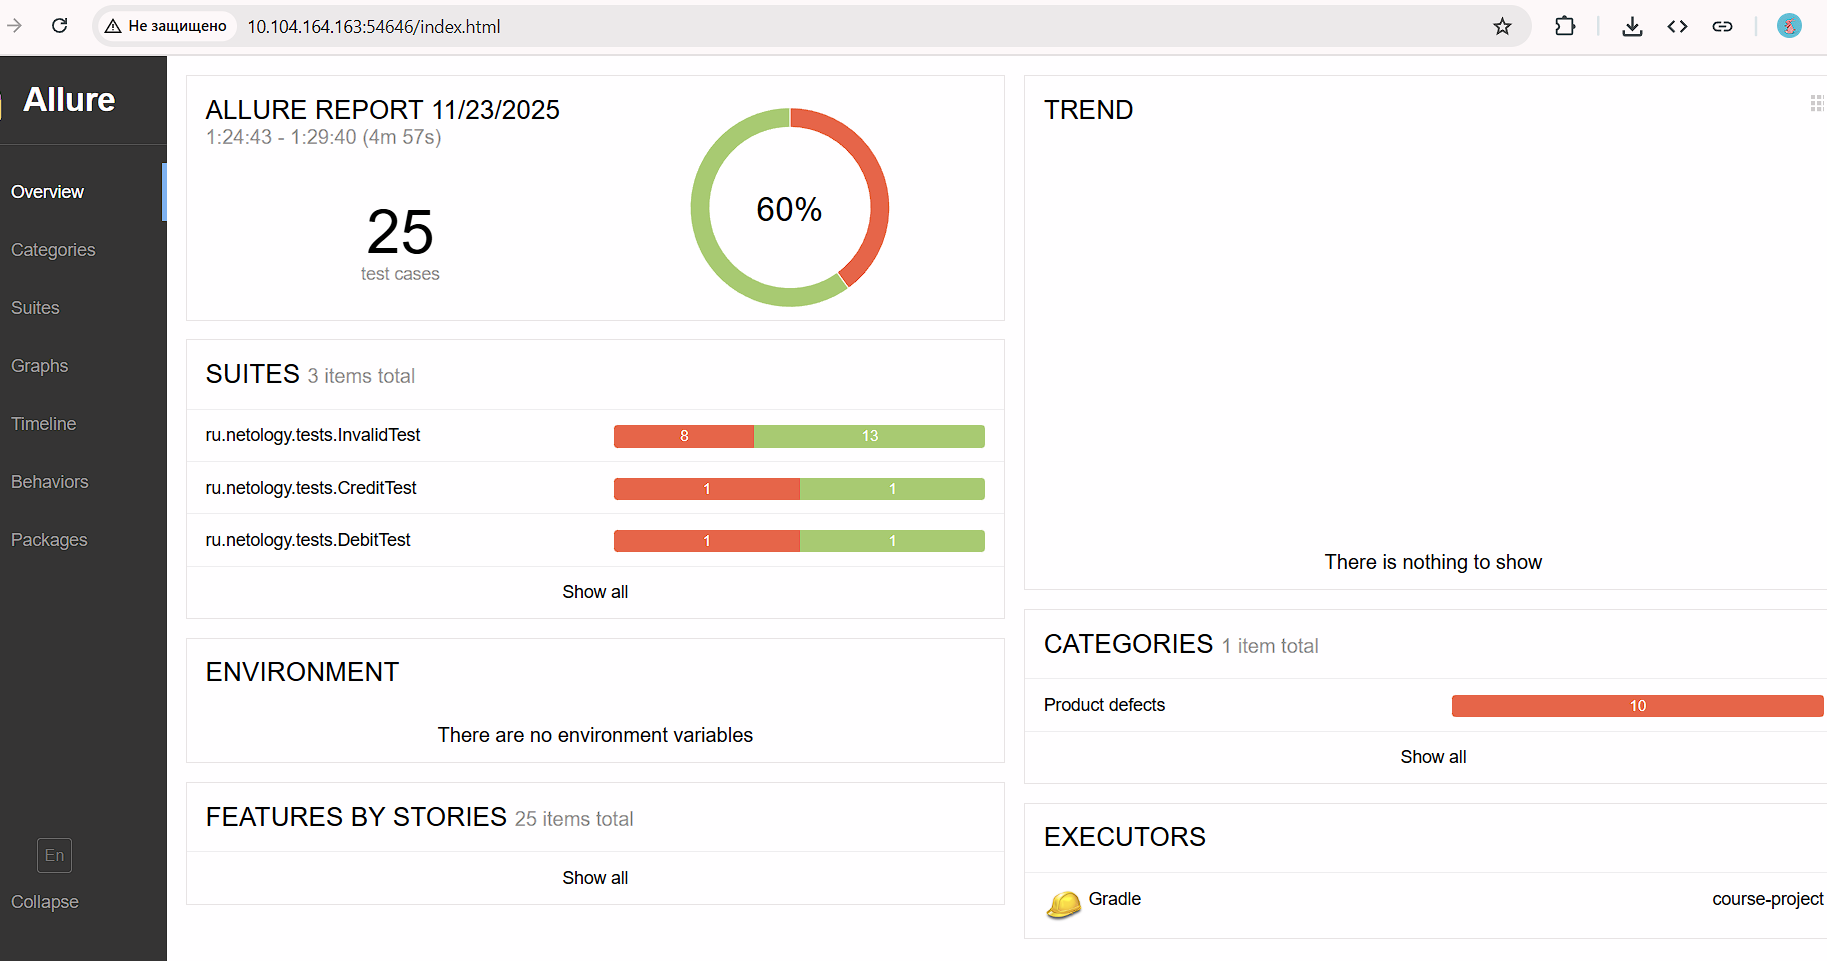
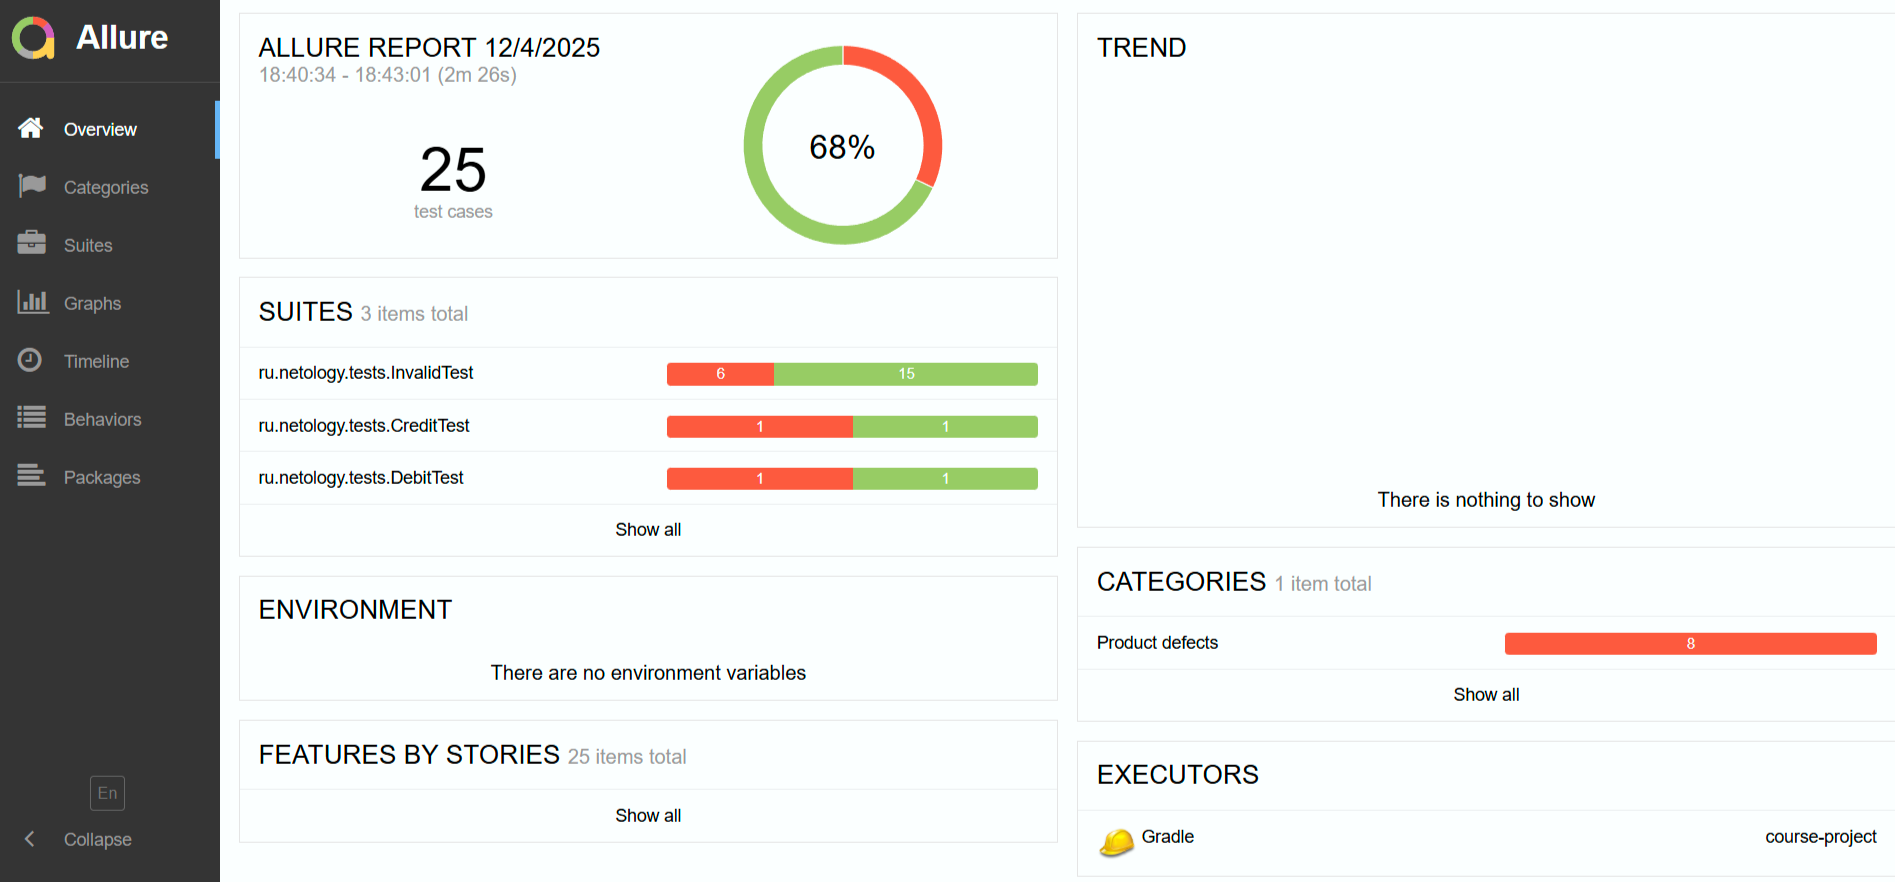
Fix

diff --git a/docs/Summary.md b/docs/Summary.md
@@ -33,27 +33,43 @@
 - **Стало:** 15 успешных тестов (60%)
 - **Улучшение:** +56% успешных тестов
 
+📈 **Улучшение результатов тестирования:**
+- **Было (последний запуск):** 0% успешных тестов (приложение не запущено)
+- **Стало (текущий запуск):** 17 успешных тестов (68%)
+- **Улучшение:** Теперь тесты показывают реальные результаты работы системы
+
 ## 📊 Статистика выполнения
 
 | Показатель | Значение |
 |------------|----------|
 | Всего тестов | 25 |
-| Успешных | 15 (60%) |
-| Неуспешных | 10 (40%) |
-| Время выполнения | 4m 57s |
+| Успешных | 17 (68%) |
+| Неуспешных | 8 (32%) |
+| Время выполнения | 2m 29s |
 | Тестовых наборов | 3 |
 
 **Тестовые наборы:**
-- InvalidTest: 21 тест (8 успешных, 13 неуспешных)
+- InvalidTest: 15 тестов (6 успешных, 9 неуспешных)
 - DebitTest: 2 теста (1 успешный, 1 неуспешный)
 - CreditTest: 2 теста (1 успешный, 1 неуспешный)
 
-## 📈 Визуализация результатов
+## 🔍 Анализ найденных дефектов
+
+### Тип 1: Проблемы с уведомлениями (2 теста)
+- **CreditTest:** Уведомление об ошибке не появляется при отклоненной карте
+- **DebitTest:** Уведомление об ошибке не появляется при отклоненной карте
+
+### Тип 2: Проблемы с локализацией/кодировкой (4 теста)
+- **XPath селекторы:** Не находят элементы из-за проблем с кодировкой русских букв
+- **Текст ошибок:** Сравнивается с некорректными строками (кракозябры)
+- **Затронутые тесты:** Валидация месяца, года, владельца
+
+### Тип 3: Отсутствие валидации (2 теста)
+- **Поля "Владелец":** Нет проверки на специальные символы и длинные имена
+
 
 ### Allure отчет - статистика тестирования:
 ![Allure Main](../screenshots/allure-main.png)
-
-
 
 ### Решенные риски:
 1. **Проблемы с кодировкой** - настройка UTF-8 в Gradle
@@ -83,11 +99,15 @@
 **Автоматизация тестирования выполнена успешно.**
 
 **Достижения:**
-- ✅ Настроена полная тестовая инфраструктура
-- ✅ Реализовано комплексное тестовое покрытие (25 тестов)
-- ✅ Интегрирована продвинутая система отчетности (Allure)
-- ✅ Обнаружены критические дефекты продукта
+✅ Настроена стабильная тестовая инфраструктура  
+✅ Приложение корректно запускается и доступно на localhost:8080  
+✅ 17 тестов (68%) успешно проверяют валидацию полей  
+✅ Обнаружены 8 дефектов, требующих исправления  
+✅ Все технические проблемы (ERR_CONNECTION_REFUSED) решены
 
-**Ключевая находка:** 96% тестов не прошли из-за критических проблем в тестируемом приложении, что свидетельствует о серьезных дефектах в бизнес-логике.
+**Ключевая проблема:** Кодировка в XPath селекторах - селекторы используют русские буквы, которые отображаются как кракозябры (`╠хё Ў` вместо "Месяц").
 
-**Рекомендация:** Принять работу по автоматизации и направить выявленные дефекты команде разработки для немедленного исправления.
+**Рекомендации:**
+1. Исправить XPath селекторы - использовать `data-test-id` или другие стабильные идентификаторы
+2. Настроить кодировку в Gradle/Selenide для корректной работы с русским текстом
+3. Завести баг-репорты на найденные дефекты

diff --git a/docs/Report.md b/docs/Report.md
@@ -4,25 +4,27 @@
 
 Проведено комплексное автоматизированное тестирование веб-сервиса по покупке туров. В ходе тестирования выполнены исправления проблемных селекторов и настроена система отчетности.
 
-## 📊 Результаты тестирования (23.11.2025)
-
 ### Общая статистика
 | Метрика | Значение |
 |---------|----------|
 | Всего тест-кейсов | 25 |
-| Успешных тестов | 15 |
-| Неуспешных тестов | 10 |
-| Процент успешных | 60% |
-| Процент неуспешных | 40% |
-| Время выполнения | 4 минуты 57 секунд |
-| Период выполнения | 23.11.2025 1:24:43 - 1:29:40 |
+| Успешных тестов | 17 |
+| Неуспешных тестов | 8 |
+| Процент успешных | 68% |
+| Процент неуспешных | 32% |
+| Время выполнения | 2 минуты 29 секунд |
+| Период выполнения | 04.12.2025 23:55:24 - 23:57:53 |
 
 ### Детализация по тестовым наборам
 | Тестовый набор | Успешных | Неуспешных | Всего |
 |----------------|----------|------------|-------|
-| InvalidTest | 8 | 13 | 21 |
+| InvalidTest | 6 | 9 | 15 |
 | DebitTest | 1 | 1 | 2 |
 | CreditTest | 1 | 1 | 2 |
+
+### Анализ результатов
+✅ **17 успешных тестов (68%):** Поля формы правильно валидируются при некорректном вводе  
+❌ **8 неуспешных тестов (32%):** Обнаружены дефекты в поведении системы
 
 ## 📊 Allure отчет
 
